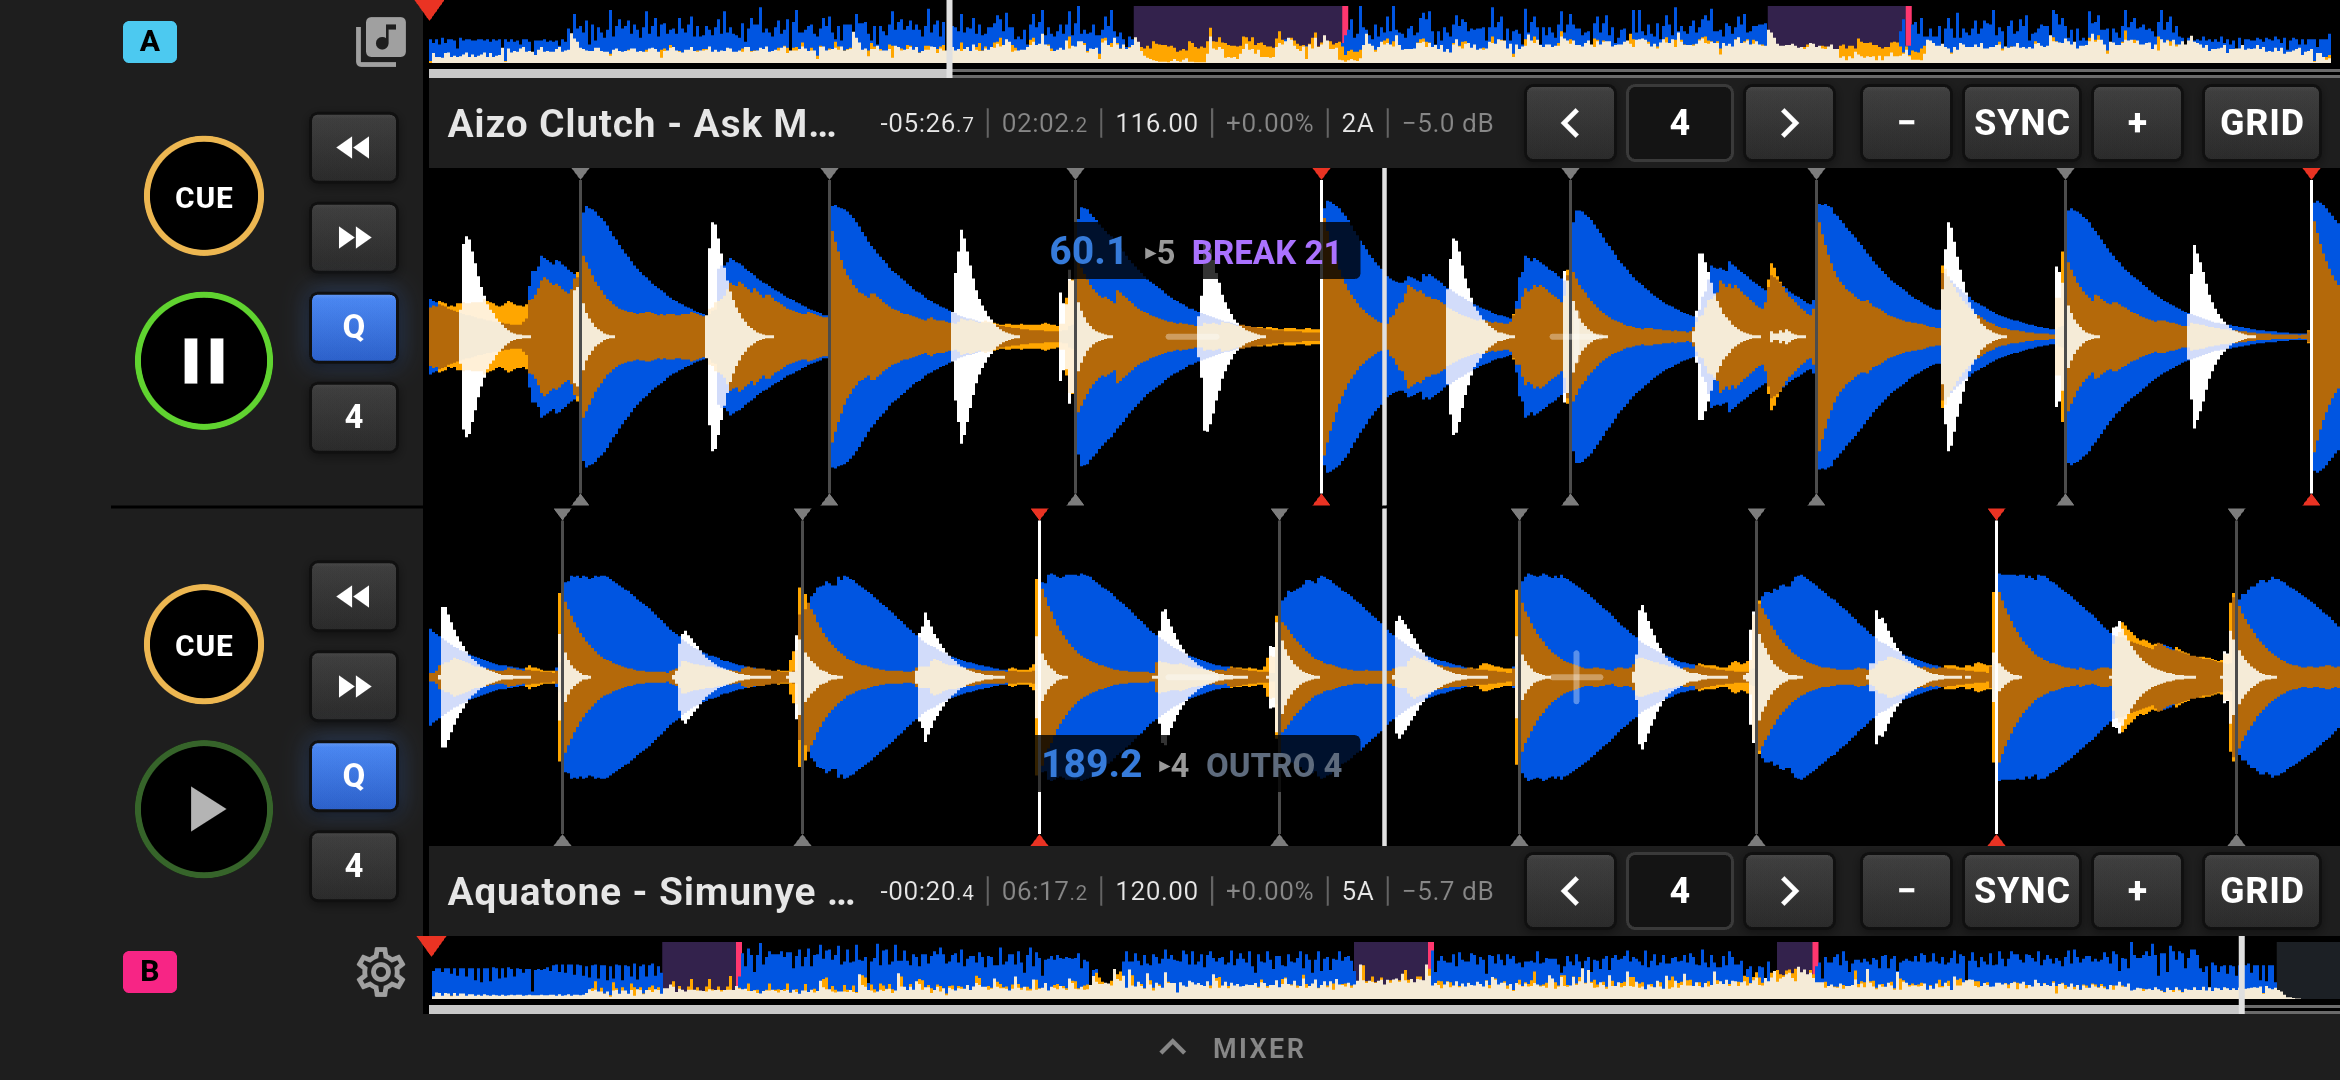
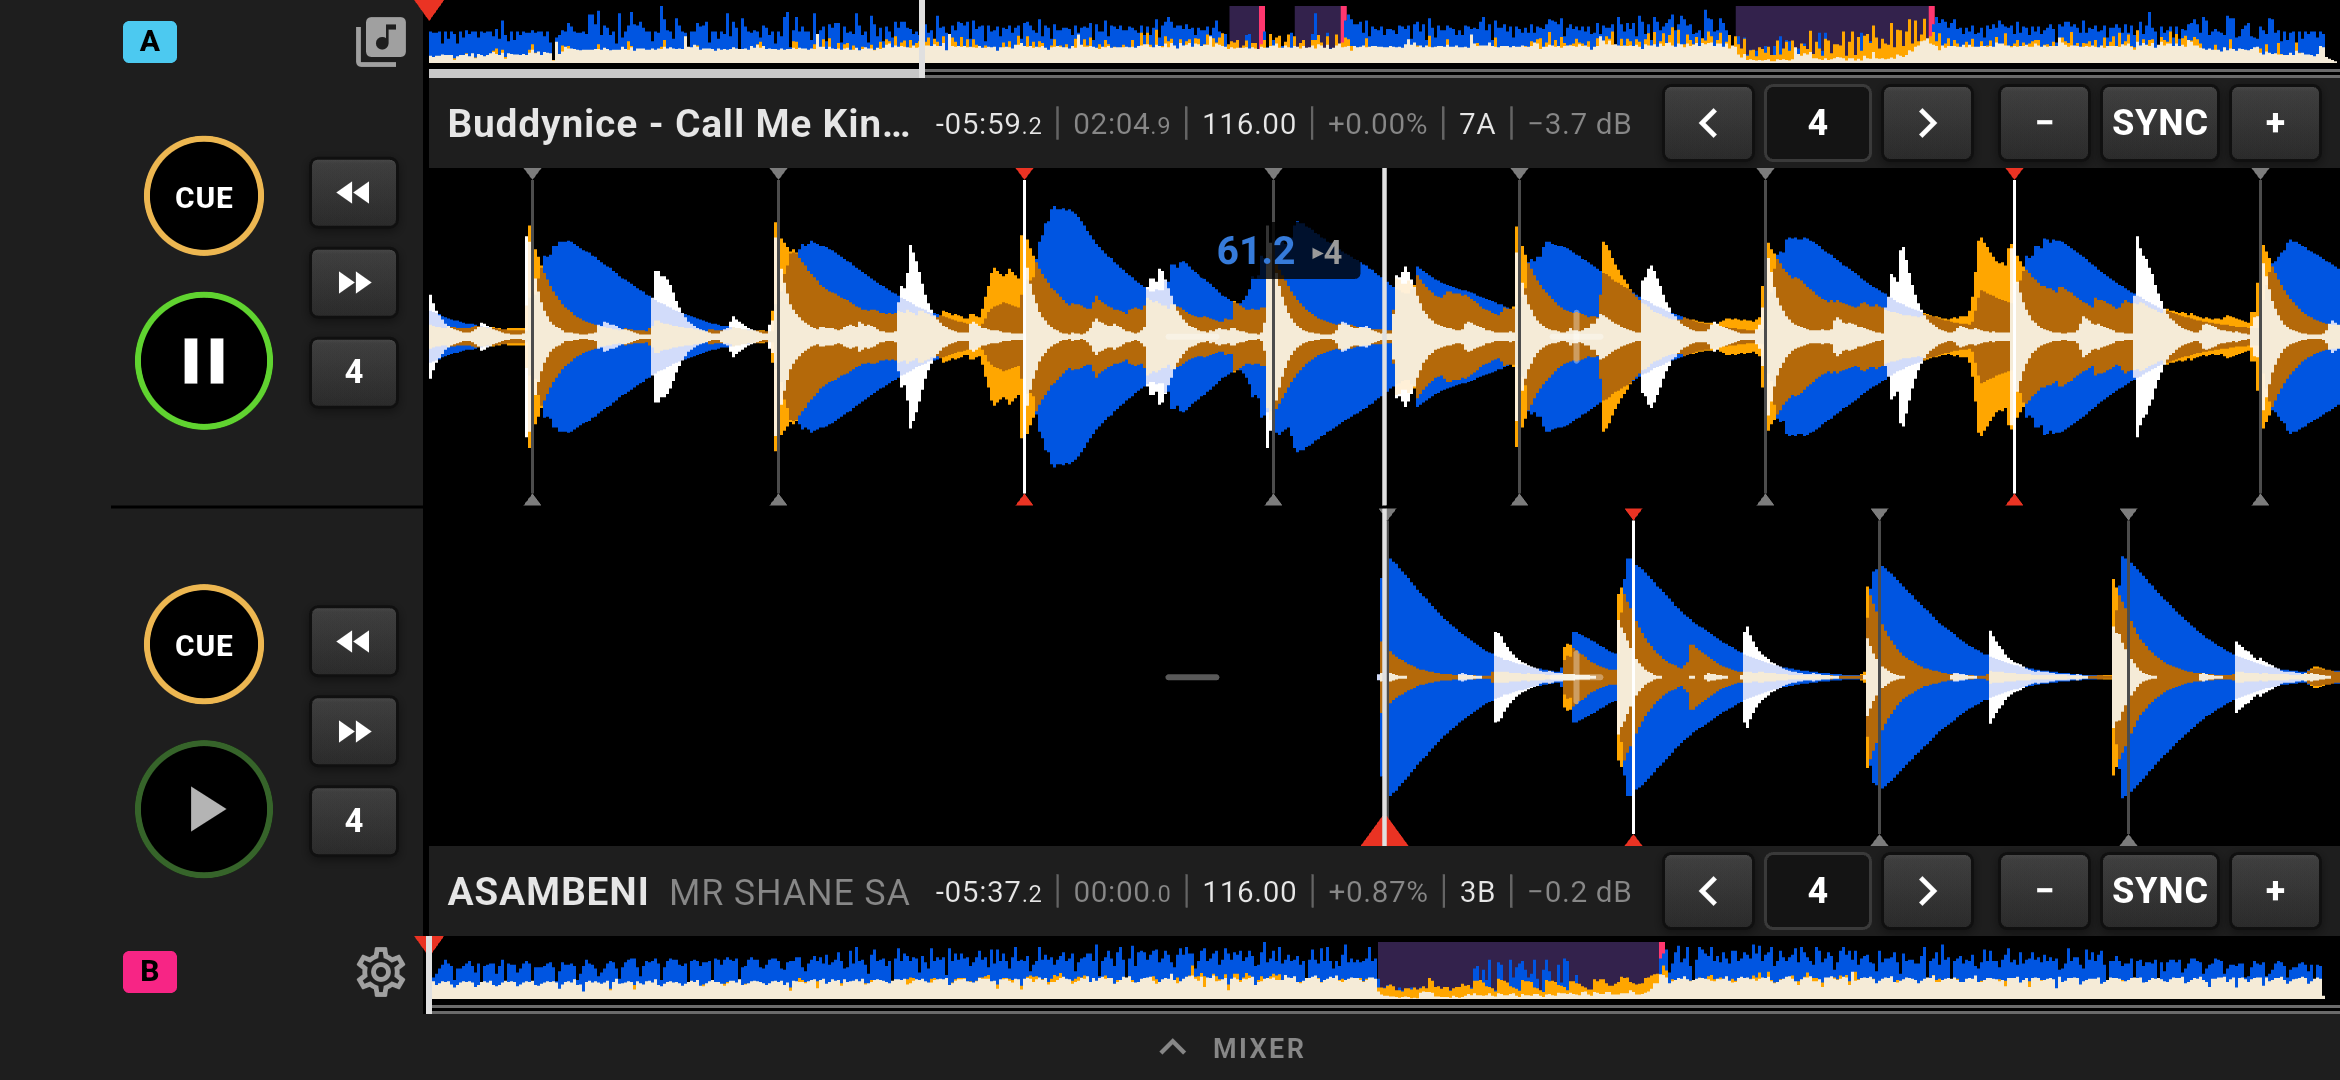
README and screenshots: GRID and Q hidden by default

diff --git a/README.md b/README.md
@@ -33,11 +33,11 @@ USB out to an external mixer such as the Teenage Engineering EP-136 K.O. Sidekic
 
 <img src="screenshots/portrait.png" alt="The upright layout: deck A above, deck B below, controls on the outside and the two scrolling waveforms meeting in the middle; deck A is in a tinted breakdown with the bar counter counting down to the drop" width="300"> <img src="screenshots/bpm.png" alt="Long-press SYNC: the in-app BPM keypad, upright" width="300">
 
-![Settings: Screen (auto, landscape or portrait) and Deck buttons (hot cue pads, Auto Cue)](screenshots/settings.png)
+![Settings: Screen (auto, landscape or portrait) and Deck buttons (hot cue pads, GRID and Q buttons, Auto Cue)](screenshots/settings.png)
 
 ![The internal mixer: EQ faders and crossfader in recessed wells with tick marks and shaded caps (the filter fader is optional)](screenshots/mixer.png)
 
-![GRID mode on deck A (beat here, bar here, 5 ms, BPM, tap, undo) with the internal mixer hidden](screenshots/grid.png)
+![GRID mode on deck A, with the GRID button turned on in Settings (beat here, bar here, 5 ms, BPM, tap, undo) with the internal mixer hidden](screenshots/grid.png)
 
 ![Track details, opened by tapping a deck's title](screenshots/details.png)
 
@@ -101,10 +101,10 @@ Upstream: [issue #13](https://github.com/manueljpy/SideDeck/issues/13),
 - **Control row** between each overview and detail: title and artist, then
   `-MM:SS.t` remaining, `MM:SS.t` elapsed, BPM (0.01), tempo %, key; hot cue pads;
   `‹ 4 ›` (the loop length in a recessed readout between halve and double);
-  `− · SYNC · +`; `GRID`. Buttons are raised and lit from above, and glow blue
+  `− · SYNC · +`; `GRID` (when turned on). Buttons are raised and lit from above, and glow blue
   when on; set hot cues shade in their slot colour.
 - **Transport rail,** in two columns: CUE over PLAY, and beside them beat-jump
-  ◀◀ ▶▶, **Q** (quantize) and the jump size; small A/B tags; library (deck A)
+  ◀◀ ▶▶, the jump size and **Q** (quantize, when turned on); small A/B tags; library (deck A)
   and settings (deck B). A gap at the centre line keeps deck B's CUE clear of
   deck A.
 - **Track details:** tap a deck's title for artist, album (rekordbox), length
@@ -156,8 +156,10 @@ the camera cutout.
   silence, as on a CDJ. Without a grid it cues the first sound.
 - **Hot cue pads** can be hidden (Settings → Deck buttons) to give the control
   row room; set cues still show on the waveforms.
-- **Quantize (Q, on by default):** CUE, new hot cues and loop-in snap to the
-  nearest beat, and hot cue jumps while playing keep the beat phase.
+- **Quantize (on by default):** CUE, new hot cues and loop-in snap to the
+  nearest beat, and hot cue jumps while playing keep the beat phase. The **Q**
+  button to switch it is hidden by default (Settings → Deck buttons); hidden,
+  quantize keeps its setting.
 - **Beat jump:** ◀◀ ▶▶ by 1, 2, 4, 8, 16 or 32 beats (tap the size box to cycle).
 
 ### Mixer
@@ -245,7 +247,9 @@ Grids analyzed by an older build keep their old values until re-analyzed
 
 ### Fixing a grid by hand (GRID mode)
 
-Tap **GRID** on a deck. The wave still scrubs and zooms, so put a kick under
+Grid fixing is set-prep work, so the **GRID** button is hidden by default:
+turn it on in Settings → Deck buttons (turning it off leaves GRID mode). Tap
+**GRID** on a deck. The wave still scrubs and zooms, so put a kick under
 the playhead first:
 
 | Button | What it does |
@@ -298,7 +302,8 @@ cue colours and comments. It has only been tested on synthetic files so far.
 - **Auto gain** (Settings): on or off.
 - **Tempo** (Settings): key lock, the tempo fader, and its direction.
 - **Screen** (Settings): auto, landscape or portrait.
-- **Deck buttons** (Settings): hot cue pads, Auto Cue.
+- **Deck buttons** (Settings): hot cue pads, the GRID and Q buttons (both off
+  by default), Auto Cue.
 - **Waveform** (Settings): full waveform, track sections.
 - **Search fix:** the filter could stay active after a search while the box
   looked empty, so other tracks could not be picked. The box now shows the
@@ -326,13 +331,13 @@ cue colours and comments. It has only been tested on synthetic files so far.
 | Tap the title | Control row | Track details |
 | CUE | Rail | Set / return / preview (CDJ style) |
 | ◀◀ ▶▶ and size box | Rail | Beat jump; tap the box for 1–32 beats |
-| Q | Rail | Quantize on / off |
+| Q | Rail (when turned on) | Quantize on / off |
 | A B C D | Control row | Hot cues: tap set or jump, long-press clear |
 | ‹ 4 › | Control row | Halve the loop, toggle it (the number lights blue), double it |
 | − · SYNC · + | Control row | BPM ±0.1; beat sync (tap again to release, long-press to type a BPM) |
 | Double-tap a fader | Mixer | Reset EQ / filter / crossfader to centre |
 | KEY · fader · ±% | Rail (when turned on) | Key lock, tempo (double-tap resets), range |
-| GRID | Control row | Grid fix tools: beat here, bar here, 5 ms, BPM, tap, undo |
+| GRID | Control row (when turned on) | Grid fix tools: beat here, bar here, 5 ms, BPM, tap, undo |
 | ▼ / ▲ MIXER | Above the crossfader / bottom strip | Hide / show the internal mixer |
 | Tap a track (or its ⋮) | Library | Load on deck A / B, analyze |
 | ⋮ (top right) | Library | The tab's tools: add music, analyze, import USB, clear history |
